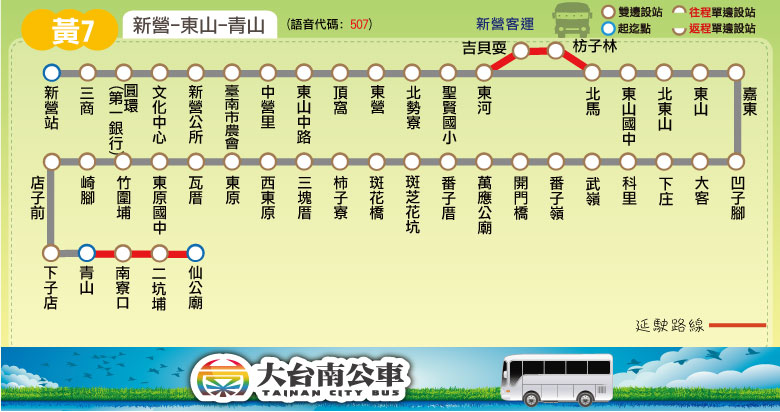
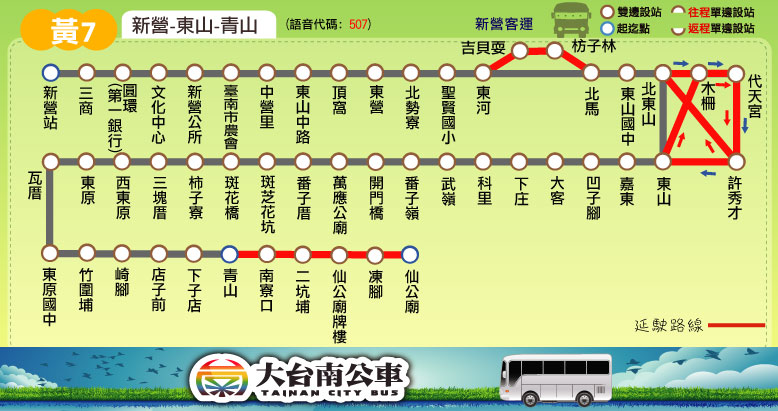
更新黃7站位及時刻表

diff --git a/route/fare_and_time/yellow_7.js b/route/fare_and_time/yellow_7.js
@@ -1,11 +1,11 @@
 yellow_7_interval_name = ["新營","頂窩","北勢寮","東河","北馬","東山","大客","武嶺","番子嶺","斑芝<br />花坑","東原","瓦厝","崎腳","青山","仙公廟"];
-yellow_7_interval_stop = [ // checked interval at Apr.15
+yellow_7_interval_stop = [ // 2015.09.02 checked
 ["新營站","三商","圓環(第一銀行)","文化中心","新營公所","臺南市農會","中營里","東山中路"], // 新營
 ["頂窩","東營"], // 頂窩
 ["北勢寮","聖賢國小"], // 北勢寮
 ["東河","吉貝耍","枋子林"], // 東河
 ["北馬"], // 北馬
-["東山國中","北東山","東山","嘉東"], // 東山
+["東山國中","北東山","木柵","代天宮","許秀才","東山","嘉東"], // 東山
 ["凹子腳","大客","下庄","科里"], // 大客
 ["武嶺"], // 武嶺
 ["番子嶺"], // 番子嶺
@@ -13,10 +13,9 @@ yellow_7_interval_stop = [ // checked interval at Apr.15
 ["三塊厝","西東原","東原"], // 東原
 ["瓦厝","東原國中","竹圍埔"], // 瓦厝
 ["崎腳"], // 崎腳
-["店子前","下子店","青山"], // 青山
-["南寮口","二坑埔","仙公廟"] // 仙公廟
+["店子前","下子店","青山","南寮口","二坑埔","仙公廟牌樓","凍腳"], // 青山
+["仙公廟"] // 仙公廟
 ];
-yellow_7_stop_time_consume = [0,1,2,3,4,8,12,13,14,15,18,19,21,24,25,27,28,30,31,31,32,32,33,34,37,37,38,38,39,40,41,43,45,46,47,47,48,49,50];
 yellow_7_fare = [
 [26],
 [26,26],
@@ -37,14 +36,32 @@ yellow_7_fare = [
 // format = [time at the start stop] or
 // [time, other] or
 // [time, start_stop, end_stop, other]
-yellow_7_main_stop_name = ["新營","東河","東山","斑花橋","東原","青山","仙公廟<br /><font color=\"red\">(假日延駛)</font>"];
-yellow_7_main_stop_time_consume = [0, 18, 28, 39, 45, 50, 70];
-yellow_7_important_stop = [0, 2, 5]; // 新營, 東山, 青山
+yellow_7_main_stop_name = ["新營","東河","吉貝耍","北東山","許秀才","東山","斑花橋","東原","青山","仙公廟<br /><font color=\"red\">(假日延駛)</font>"];
+yellow_7_main_stop_time_consume = [0, 19, 20, 26, 30, 28, 39, 45, 50, 70];
+yellow_7_important_stop = [0, 5, 8, 9]; // 新營, 東山, 青山, 仙公廟
 start_stop = 0; // 新營
-end_stop = 5; // 青山
-yellow_7_time_go = [["06:55",start_stop,end_stop],["08:20",start_stop,end_stop,['繞']],["09:30",start_stop,end_stop],["10:40",start_stop,end_stop,['繞']],["11:50",start_stop,end_stop],["14:20",start_stop,end_stop],["15:40",start_stop,end_stop],["16:30",start_stop,end_stop],["17:30",start_stop,end_stop,['繞']],["18:50",start_stop,end_stop]];
-yellow_7_time_return = [["05:50",end_stop,start_stop,['繞']],["07:55",end_stop,start_stop],["09:15",end_stop,start_stop],["10:25",end_stop,start_stop,['繞']],["11:35",end_stop,start_stop],["12:45",end_stop,start_stop,['繞']],["15:15",end_stop,start_stop],["16:35",end_stop,start_stop],["17:25",end_stop,start_stop],["18:25",end_stop,start_stop]];
+end_stop = 8; // 青山
+skip_stop_1 = 2; // 吉貝耍
+skip_stop_2 = 4; // 許秀才
+yellow_7_time_go = [["06:55",start_stop,end_stop,[skip_stop_1,skip_stop_2]],["08:20",start_stop,end_stop,[skip_stop_2]],
+["09:30",start_stop,end_stop,[skip_stop_1,skip_stop_2]],["10:40",start_stop,end_stop,[skip_stop_2]],
+["11:50",start_stop,end_stop,[skip_stop_1,[skip_stop_2+1,8]]],["14:20",start_stop,end_stop,[skip_stop_1,skip_stop_2]],
+["15:40",start_stop,end_stop,[skip_stop_1,skip_stop_2]],["16:30",start_stop,end_stop,[skip_stop_1,skip_stop_2]],
+["17:30",start_stop,end_stop,[[skip_stop_2+1,8]]],["18:50",start_stop,end_stop,[skip_stop_1,skip_stop_2]]];
+yellow_7_time_return = [["05:50",end_stop,start_stop,[[skip_stop_2,8]]],["07:55",end_stop,start_stop,[skip_stop_1,skip_stop_2]],
+["09:15",end_stop,start_stop,[skip_stop_1,skip_stop_2]],["10:25",end_stop,start_stop,[skip_stop_2]],
+["11:35",end_stop,start_stop,[skip_stop_1,skip_stop_2]],["12:55",end_stop,start_stop,[skip_stop_2]],
+["15:15",end_stop,start_stop,[skip_stop_1,skip_stop_2]],["16:35",end_stop,start_stop,[skip_stop_1,skip_stop_2]],
+["17:25",end_stop,start_stop,[skip_stop_1,skip_stop_2]],["18:35",end_stop,start_stop,[skip_stop_1,skip_stop_2]]];
 
 // holiday schedule
-yellow_7_holiday_time_go = [["06:55"],["07:15"],["08:20",start_stop,end_stop,['繞']],["09:30",start_stop,end_stop],["10:40",['繞']],["11:50",start_stop,end_stop],["14:20"],["15:40",start_stop,end_stop],["16:30",start_stop,end_stop],["17:30",start_stop,end_stop,['繞']],["18:50",start_stop,end_stop]];
-yellow_7_holiday_time_return = [["05:50",end_stop,start_stop,['繞']],["08:10"],["08:30"],["09:15",end_stop,start_stop],["10:25",end_stop,start_stop,['繞']],["11:55"],["12:45",end_stop,start_stop,['繞']],["15:35"],["16:35",end_stop,start_stop],["17:25",end_stop,start_stop],["18:25",end_stop,start_stop]];
+yellow_7_holiday_time_go = [["06:55",[skip_stop_1,skip_stop_2]],["07:15",[skip_stop_1,skip_stop_2]],
+["08:20",start_stop,end_stop,[skip_stop_2]],["09:30",start_stop,end_stop,[skip_stop_1,skip_stop_2]],
+["10:40",[skip_stop_2]],["11:50",start_stop,end_stop,[skip_stop_1,[skip_stop_2+1,8]]],["14:20",[skip_stop_1,skip_stop_2]],
+["15:40",start_stop,end_stop,[skip_stop_1,skip_stop_2]],["16:30",start_stop,end_stop,[skip_stop_1,skip_stop_2]],
+["17:30",start_stop,end_stop,[[skip_stop_2+1,8]]],["18:50",start_stop,end_stop,[skip_stop_1,skip_stop_2]]];
+yellow_7_holiday_time_return = [["05:50",end_stop,start_stop,[[skip_stop_2,8]]],["08:10",[skip_stop_1,skip_stop_2]],
+["08:30",[skip_stop_1,skip_stop_2]],["09:15",end_stop,start_stop,[skip_stop_1,skip_stop_2]],
+["10:25",end_stop,start_stop,[skip_stop_2]],["11:55",[skip_stop_1,skip_stop_2]],["12:55",end_stop,start_stop,[skip_stop_2]],
+["15:35",[skip_stop_1,skip_stop_2]],["16:35",end_stop,start_stop,[skip_stop_1,skip_stop_2]],
+["17:25",end_stop,start_stop,[skip_stop_1,skip_stop_2]],["18:35",end_stop,start_stop,[skip_stop_1,skip_stop_2]]];

diff --git a/yellow/yellow_7.html b/yellow/yellow_7.html
@@ -23,7 +23,7 @@
 	block_route_map(null);
 	block_route_info(route_interval,'新營客運','','里程計費','http://2384.tainan.gov.tw:8080/AGPSRemoteQuery3/ajaxBus.jsp?pathId=1507&locale=zh_TW');
 	block_fare(0, null);
-	block_multiple_time_schedule( [['平日班表','normal'],['假日班表','holiday']],'「<font color="blue">繞</font>」表示繞駛吉貝耍、枋子林<h1><font color="red">僅假日延駛仙公廟</font></h1>');
+	block_multiple_time_schedule( [['平日班表','normal'],['假日班表','holiday']],'兩種繞駛：<font color="#B000FF">1.繞駛吉貝耍、枋子林</font>　<font color="#2000AA">2.繞駛木柵、許秀才</font><h1><font color="red">僅假日延駛仙公廟</font></h1>');
 	block_transfer(transfer_hsinyin);
 	block_copyright();
 </script>
